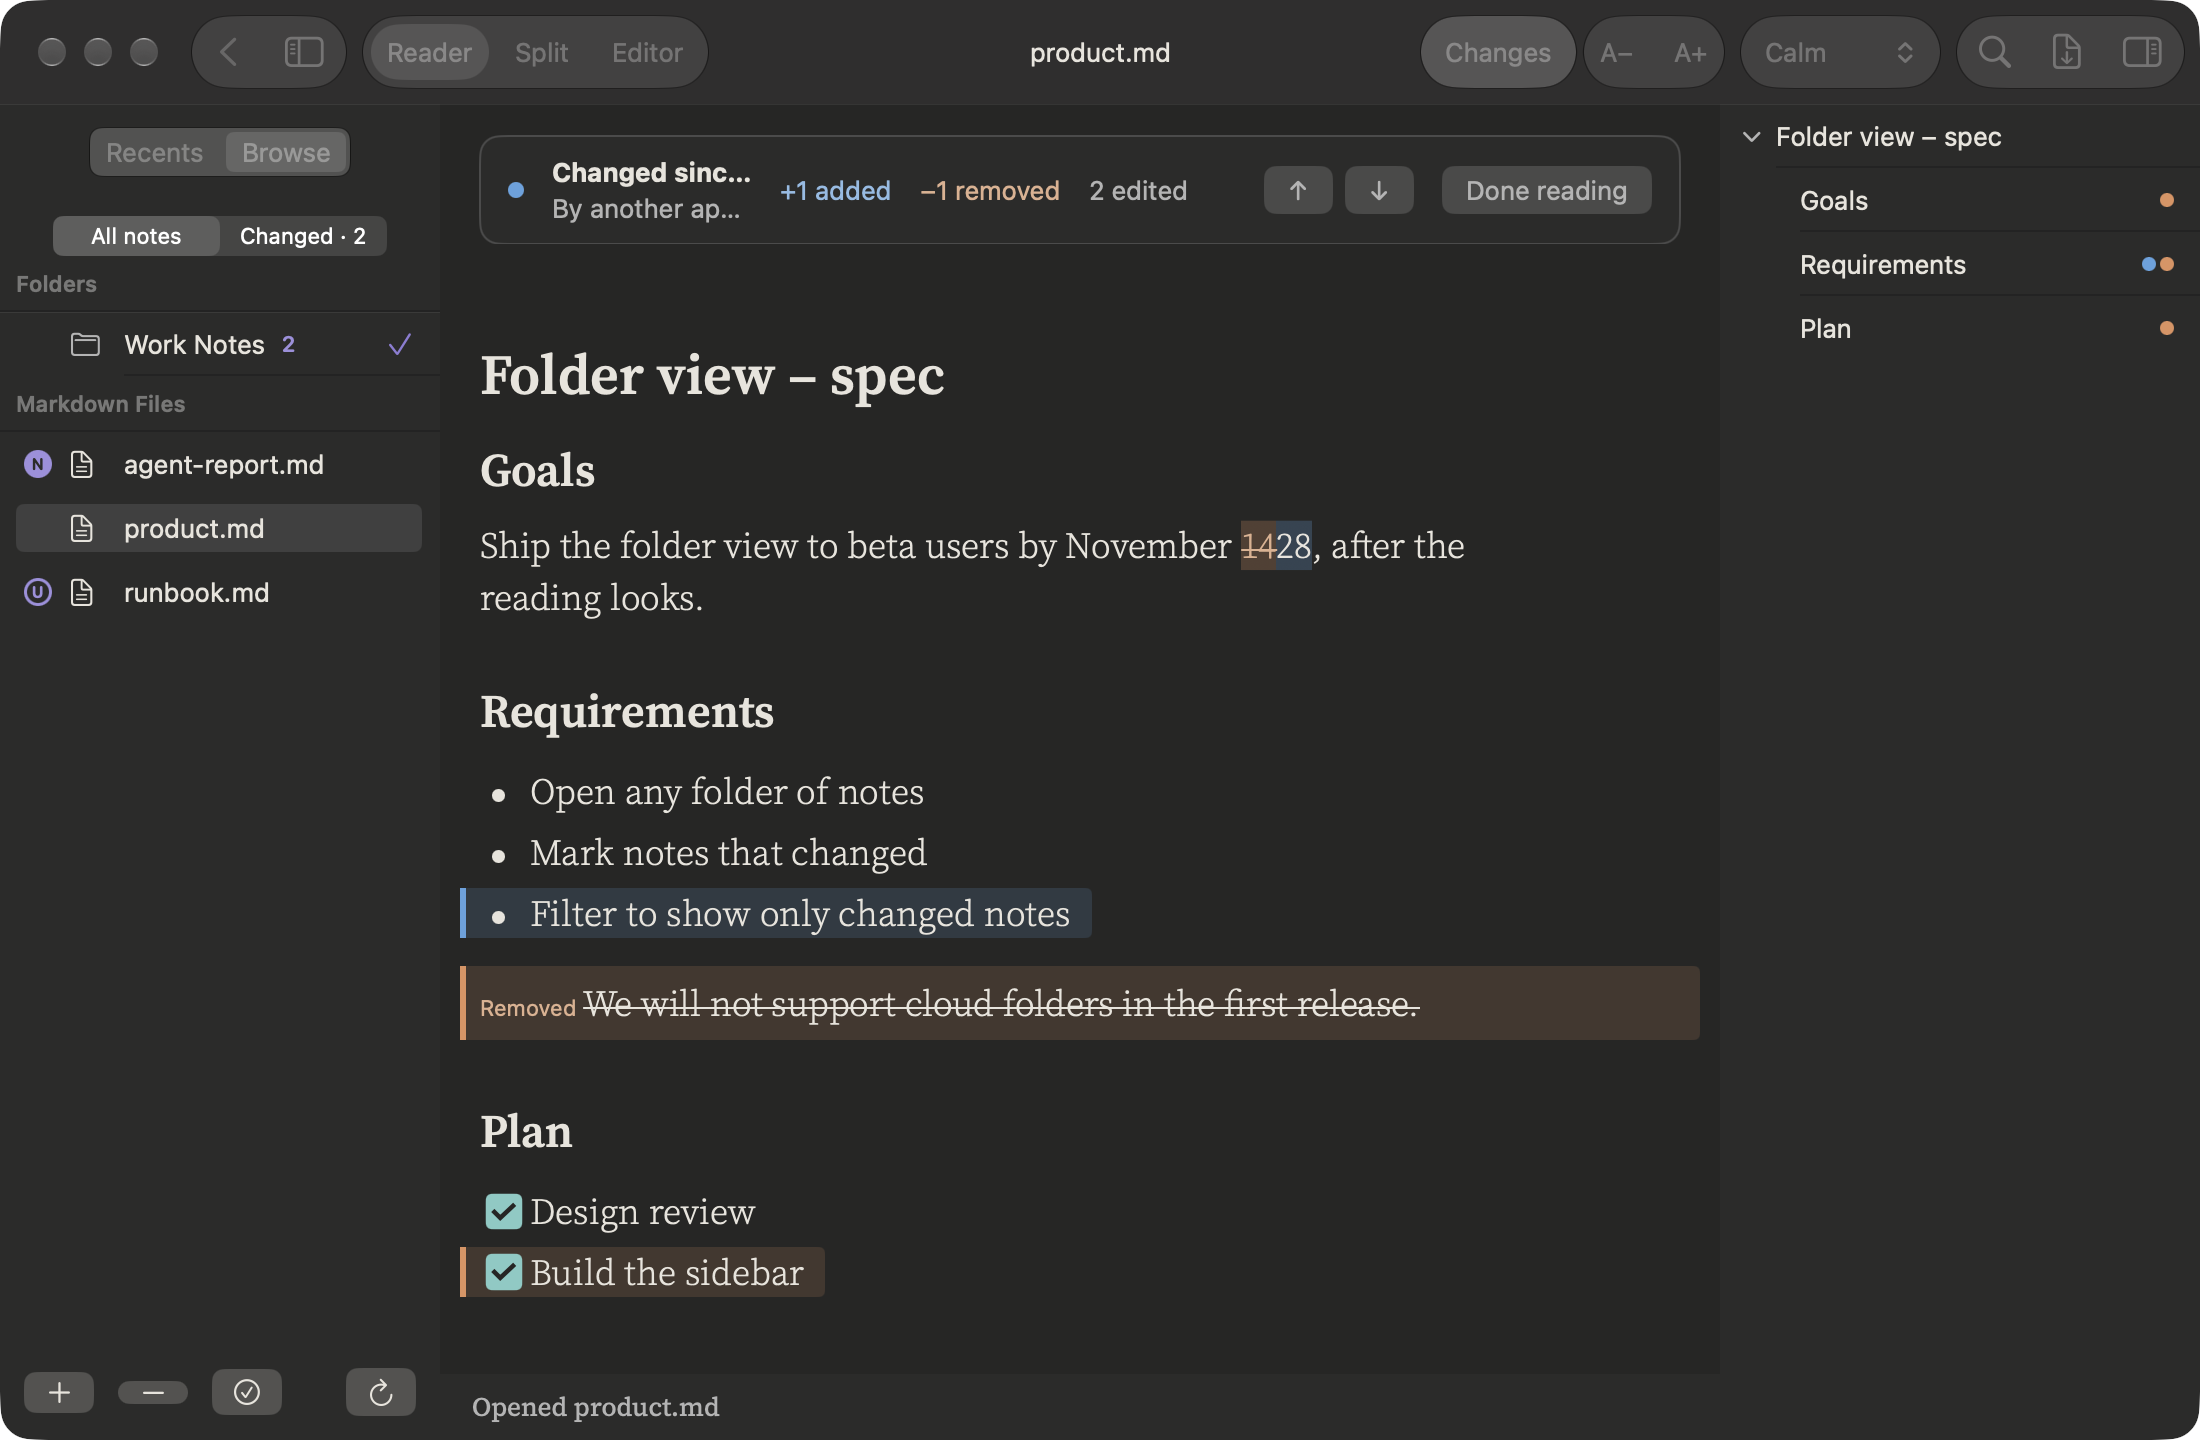
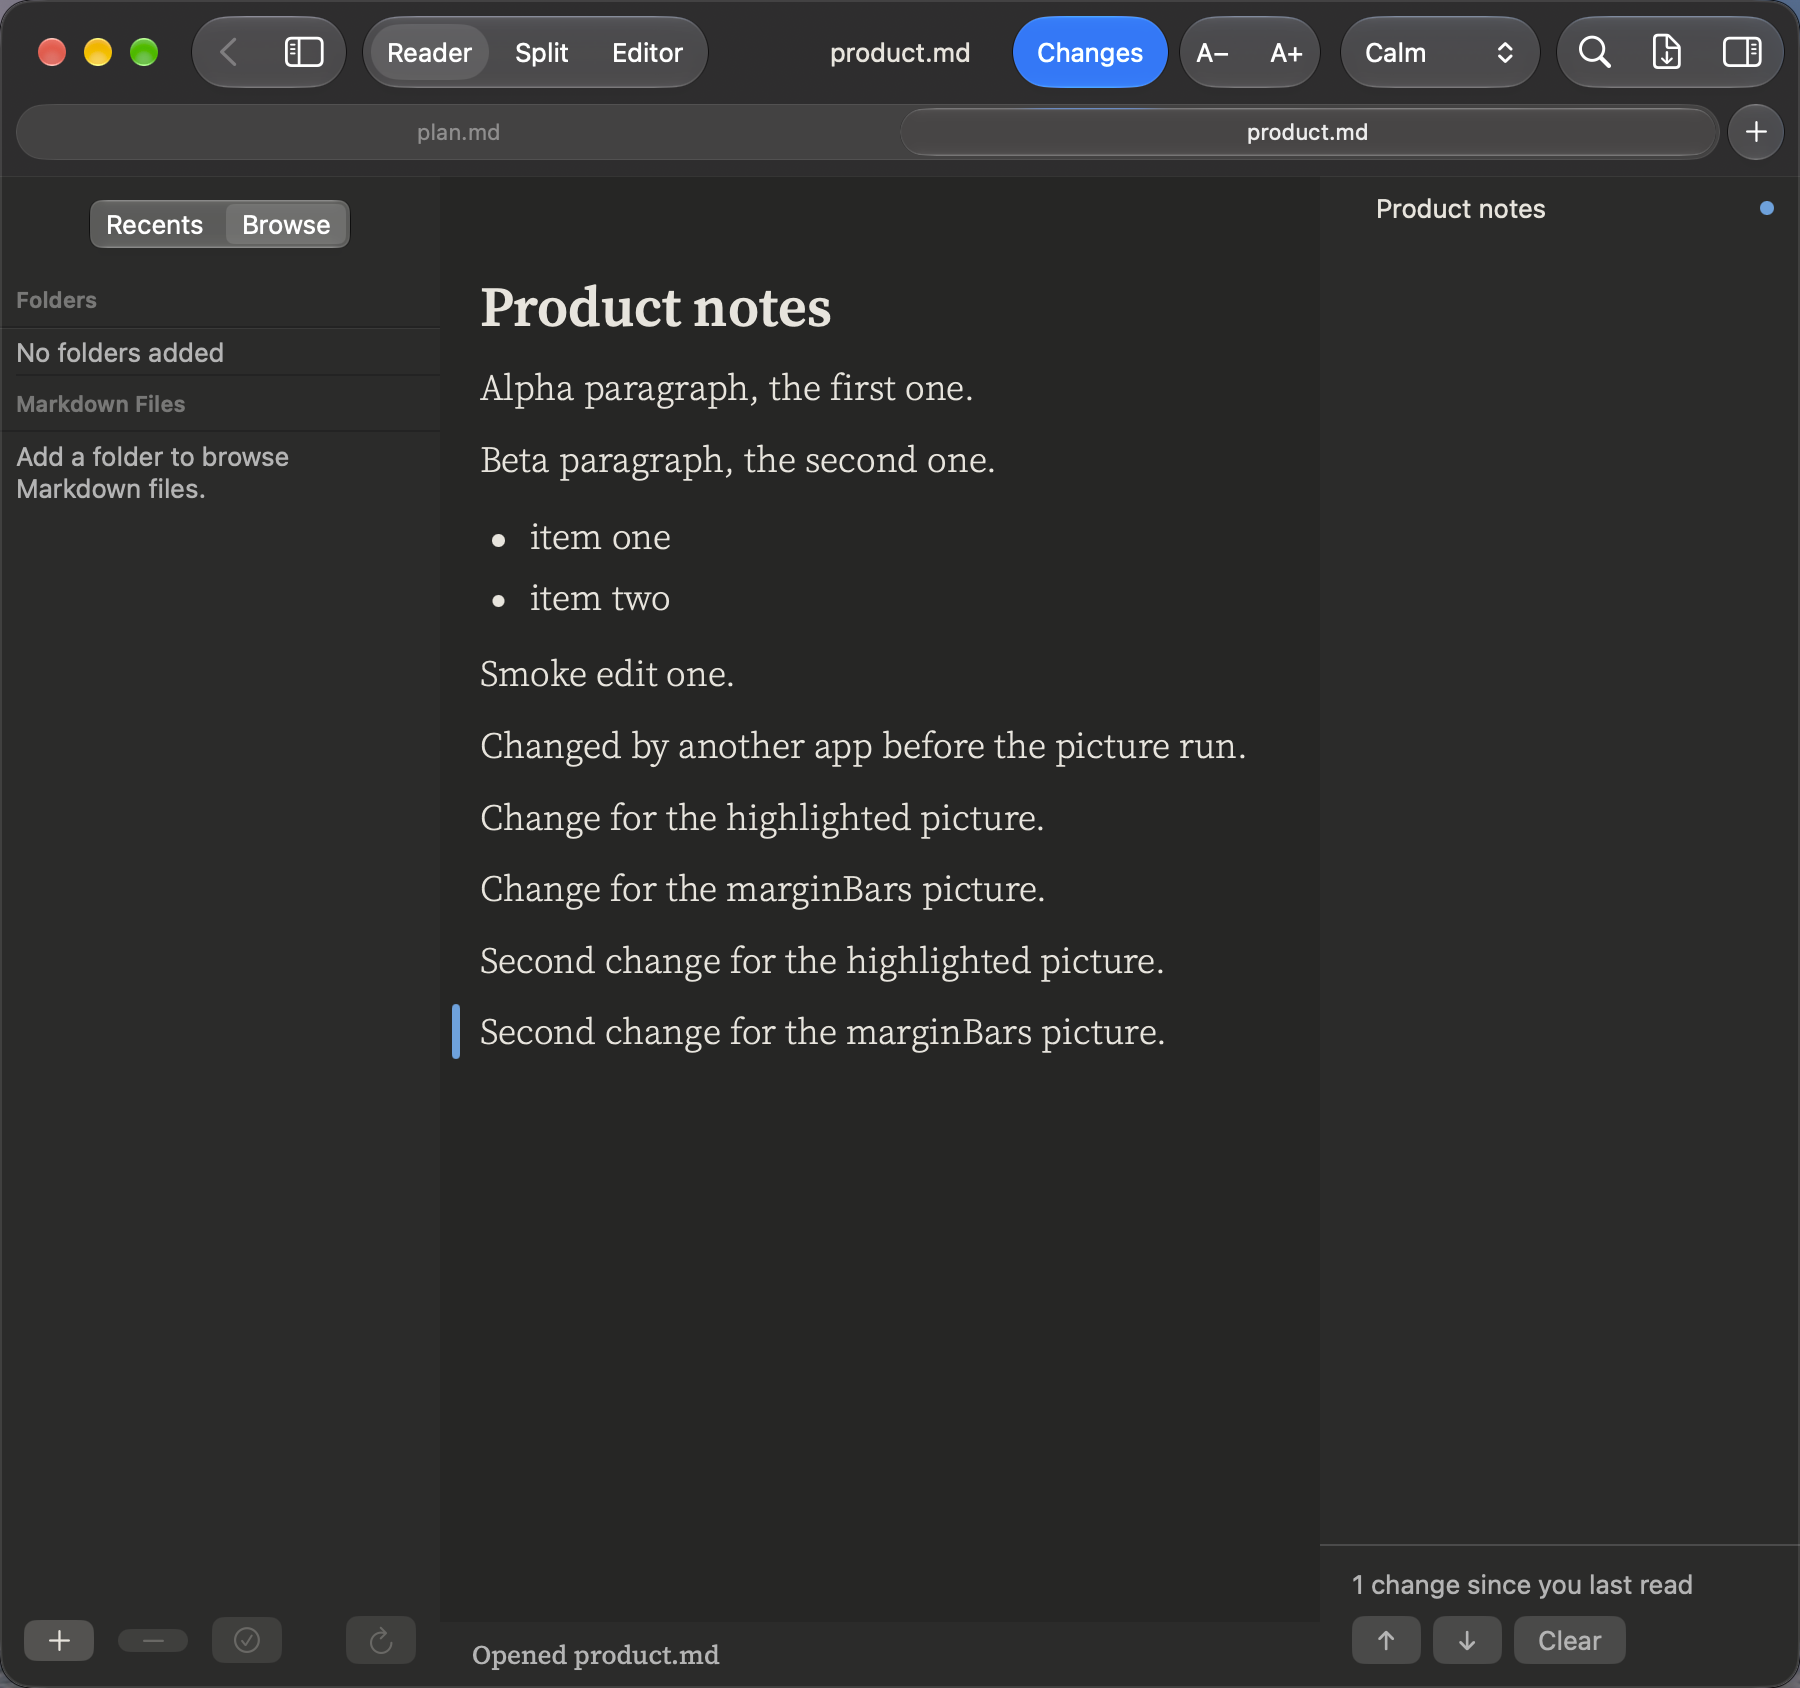
docs: 0.2 - file history pictures re-taken from the release app

diff --git a/README.md b/README.md
@@ -32,7 +32,7 @@ keeps (10 to 30 days, 50 to 500 MB).
 
 ![The Compare window showing the source as a diff](images/compare-source.png)
 
-![A changed note with its changes highlighted and the Changed banner](images/changed-banner.png)
+![A changed note, with a bar in the margin beside each change](images/changed-banner.png)
 
 ---
 
